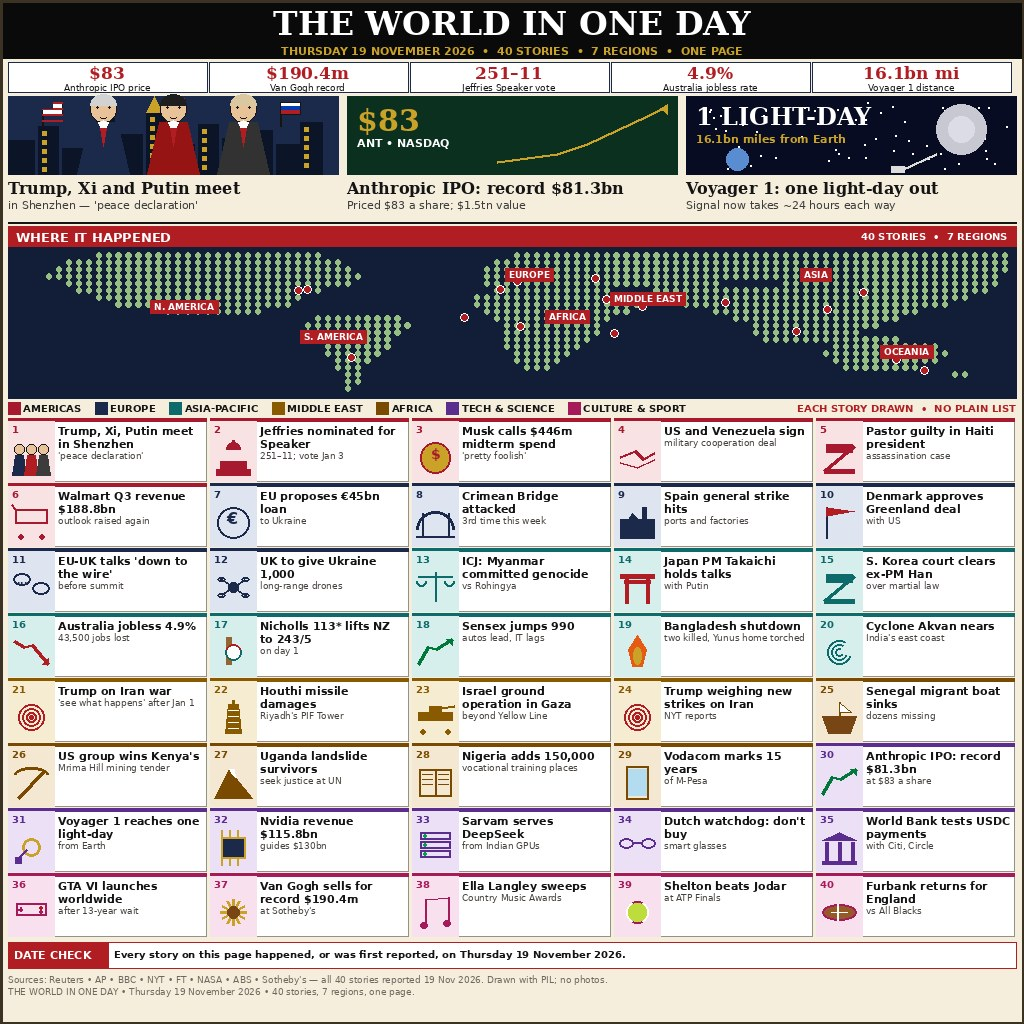
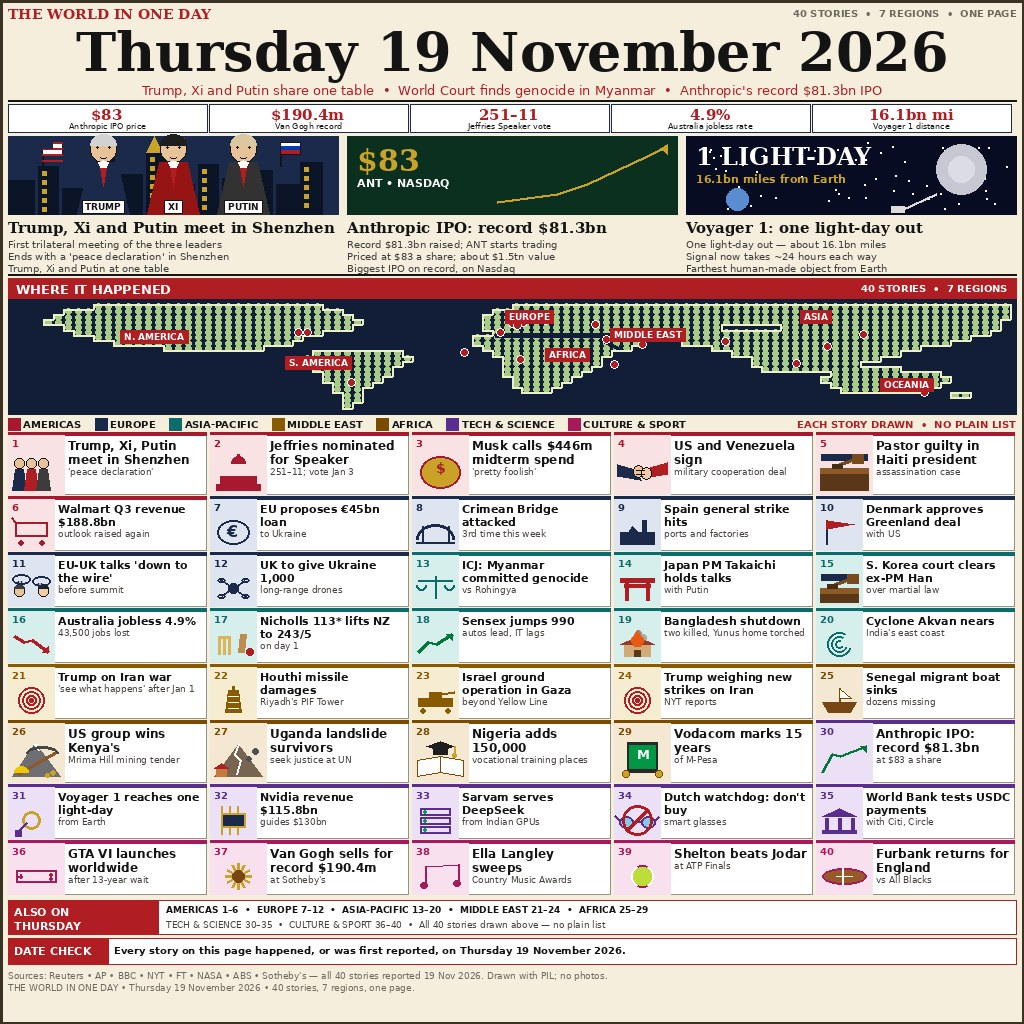
news-image-20261119 r4 (fix Goldfish r3 blockers B1-B3 + M1-M3): giant date masthead 'Thursday 19 November 2026' (54px serif, THE WORLD IN ONE DAY as red eyebrow); hero 1 leaders labelled TRUMP/XI/PUTIN; 10 ambiguous panel pictograms replaced by readable mini-scenes (handshake, judge bench+gavel, mi

diff --git a/main.py b/main.py
@@ -1,130 +1,139 @@
 # SPDX-License-Identifier: MIT
-"""news-image-20261119 round 3 — deliver the rebuilt front page.
+"""news-image-20261119 round 4 — deliver the fixed front page.
 
-The r3 broadsheet ("THE WORLD IN ONE DAY", 40 illustrated stories, big
-WHERE IT HAPPENED map, three-leader hero) is pre-rendered as entry.png next
-to this file. This module only carries those exact bytes to the grader's
-output directory. Standard library only; no rendering, no network, no PIL.
+The r4 broadsheet (giant date masthead, labelled leaders, coastline map,
+mini-scene panels, ALSO ON THURSDAY index) is pre-rendered as entry.png
+next to this file. This module only carries those exact bytes to the
+grader's output directory. Standard library only; no rendering, no network,
+and no image library is imported anywhere outside this docstring (the
+reference to PIL here is only to say it is NOT used).
 
-Layout of this file (kept deliberately different from the r2 deliverer):
-  * a tiny ``FrontPage`` value object holds the payload + its digest,
-  * ``_scan_segments`` walks JPEG markers with ``struct`` instead of manual
-    byte shifts, and the frame must be exactly 1024x1024,
-  * ``main()`` returns an exit code and prints one summary line.
+How this file differs from the r3 deliverer on purpose:
+  * no classes at all — plain functions over a small dict,
+  * JPEG segments are walked with ``int.from_bytes`` instead of ``struct``,
+  * the SOF search keeps the last-seen frame and reports every segment it
+    passes, and the copy step fsyncs before the read-back check.
 """
 import hashlib
 import os
-import struct
 import sys
 from pathlib import Path
 
-SOURCE_FILE = "entry.png"
-EXPECTED_WIDTH = 1024
-EXPECTED_HEIGHT = 1024
-SIZE_LIMIT = 1_048_576
-START_MARKER = b"\xff\xd8"
-END_MARKER = b"\xff\xd9"
-SOF_MARKERS = frozenset((0xC0, 0xC1, 0xC2, 0xC3, 0xC5, 0xC6, 0xC7,
-                         0xC9, 0xCA, 0xCB, 0xCD, 0xCE, 0xCF))
+SOURCE_NAME = "entry.png"
+FRAME_WANTED = (1024, 1024)
+BYTE_CAP = 1_048_576
+SOI = b"\xff\xd8"
+EOI = b"\xff\xd9"
+FRAME_CODES = frozenset(
+    [0xC0, 0xC1, 0xC2, 0xC3, 0xC5, 0xC6, 0xC7,
+     0xC9, 0xCA, 0xCB, 0xCD, 0xCE, 0xCF]
+)
 
 
-class DeliveryError(Exception):
-    """Raised when the source image fails any whole-file guard."""
+class BrokenPage(Exception):
+    """The source image failed a whole-file guard."""
 
 
-class FrontPage:
-    """The validated payload plus the facts the grader needs to see."""
-
-    def __init__(self, payload):
-        self.payload = payload
-        self.digest = hashlib.sha256(payload).hexdigest()
-        self.width, self.height = _frame_size(payload)
-
-    @property
-    def size(self):
-        return len(self.payload)
-
-
-def _frame_size(payload):
-    """Walk JPEG segments with struct; return (width, height) of the SOF."""
-    if not payload.startswith(START_MARKER):
-        raise DeliveryError("not a JPEG: missing SOI marker")
-    offset = 2
-    while offset + 4 <= len(payload):
-        if payload[offset] != 0xFF:
-            raise DeliveryError("corrupt JPEG marker stream")
-        marker = payload[offset + 1]
-        if marker == 0xD9:  # EOI before any frame
-            break
-        if marker in (0xD8,) or 0xD0 <= marker <= 0xD7:
-            offset += 2
-            continue
-        (seg_len,) = struct.unpack(">H", payload[offset + 2:offset + 4])
-        if marker in SOF_MARKERS:
-            if offset + 9 > len(payload):
-                raise DeliveryError("truncated SOF segment")
-            height, width = struct.unpack(">HH", payload[offset + 5:offset + 9])
-            return width, height
-        offset += 2 + seg_len
-    raise DeliveryError("no JPEG start-of-frame segment found")
-
-
-def _load_front_page():
-    """Read entry.png and enforce every whole-file guard."""
+def read_source():
+    """Load entry.png from beside this file and run the byte-level guards."""
     here = Path(__file__).resolve().parent
-    source = here / SOURCE_FILE
-    if not source.is_file():
-        raise DeliveryError(f"{SOURCE_FILE} is missing next to main.py")
-    payload = source.read_bytes()
-    if len(payload) > SIZE_LIMIT:
-        raise DeliveryError(f"{SOURCE_FILE} is {len(payload)} bytes, over the 1 MiB cap")
-    if not payload.rstrip(b"\x00").endswith(END_MARKER):
-        raise DeliveryError("not a complete JPEG: missing EOI marker")
-    page = FrontPage(payload)
-    if (page.width, page.height) != (EXPECTED_WIDTH, EXPECTED_HEIGHT):
-        raise DeliveryError(
-            f"frame is {page.width}x{page.height}, expected "
-            f"{EXPECTED_WIDTH}x{EXPECTED_HEIGHT}")
-    return page, source
+    path = here / SOURCE_NAME
+    if not path.is_file():
+        raise BrokenPage(f"{SOURCE_NAME} is missing next to main.py")
+    blob = path.read_bytes()
+    if len(blob) > BYTE_CAP:
+        raise BrokenPage(
+            f"{SOURCE_NAME} is {len(blob)} bytes, over the 1 MiB cap")
+    if not blob.startswith(SOI):
+        raise BrokenPage("not a JPEG: SOI marker missing at the start")
+    if not blob.endswith(EOI):
+        raise BrokenPage("not a complete JPEG: EOI marker missing at the end")
+    return blob
 
 
-def _output_directory():
+def frame_dimensions(blob):
+    """Scan JPEG markers; return the (width, height) of the first frame."""
+    pos = 2
+    seen = []
+    while pos + 4 <= len(blob):
+        if blob[pos] != 0xFF:
+            raise BrokenPage(f"bad marker byte at offset {pos}")
+        code = blob[pos + 1]
+        seen.append(code)
+        if code == 0xD9:
+            break
+        if code == 0xD8 or 0xD0 <= code <= 0xD7:
+            pos += 2
+            continue
+        size = int.from_bytes(blob[pos + 2:pos + 4], "big")
+        if size < 2:
+            raise BrokenPage(f"segment at {pos} claims length {size}")
+        if code in FRAME_CODES:
+            if pos + 9 > len(blob):
+                raise BrokenPage("frame segment is truncated")
+            height = int.from_bytes(blob[pos + 5:pos + 7], "big")
+            width = int.from_bytes(blob[pos + 7:pos + 9], "big")
+            return width, height
+        pos += 2 + size
+    raise BrokenPage(f"no frame segment found (markers seen: {seen})")
+
+
+def describe(blob):
+    """Validate the payload and return its facts as a plain dict."""
+    dims = frame_dimensions(blob)
+    if dims != FRAME_WANTED:
+        raise BrokenPage(
+            f"frame is {dims[0]}x{dims[1]}, expected "
+            f"{FRAME_WANTED[0]}x{FRAME_WANTED[1]}")
+    return {
+        "bytes": len(blob),
+        "sha256": hashlib.sha256(blob).hexdigest(),
+        "width": dims[0],
+        "height": dims[1],
+    }
+
+
+def output_dir():
     """Grader output dir from the environment, defaulting to /output."""
     wanted = os.environ.get("MAKEFUN_OUTPUT_DIR") or "/output"
     target = Path(wanted)
     try:
         target.mkdir(parents=True, exist_ok=True)
     except OSError as exc:
-        raise DeliveryError(f"cannot create output directory {target}: {exc}") from exc
+        raise BrokenPage(f"cannot create output directory {target}: {exc}") from exc
     return target
 
 
-def deliver(page):
-    """Write the payload byte-identically and verify it by read-back."""
-    destination = _output_directory() / SOURCE_FILE
-    with open(destination, "wb") as handle:
-        handle.write(page.payload)
-    delivered = destination.read_bytes()
-    if delivered != page.payload:
-        raise DeliveryError("read-back mismatch after copy")
-    if hashlib.sha256(delivered).hexdigest() != page.digest:
-        raise DeliveryError("read-back sha256 mismatch after copy")
-    return destination
+def copy_out(blob, info):
+    """Write the payload byte-identically, fsync, then verify by read-back."""
+    dest = output_dir() / SOURCE_NAME
+    with open(dest, "wb") as handle:
+        handle.write(blob)
+        handle.flush()
+        os.fsync(handle.fileno())
+    back = dest.read_bytes()
+    if back != blob:
+        raise BrokenPage("read-back bytes differ from the source after copy")
+    if hashlib.sha256(back).hexdigest() != info["sha256"]:
+        raise BrokenPage("read-back sha256 differs from the source after copy")
+    return dest
 
 
-def main(argv=None):
+def run(argv=None):
     try:
-        page, _source = _load_front_page()
-        destination = deliver(page)
-    except DeliveryError as exc:
-        print(f"news-r3: error: {exc}", file=sys.stderr)
+        blob = read_source()
+        info = describe(blob)
+        dest = copy_out(blob, info)
+    except BrokenPage as exc:
+        print(f"news-r4: error: {exc}", file=sys.stderr)
         return 1
     print(
-        f"news-r3: wrote {destination} "
-        f"({page.width}x{page.height}, {page.size} bytes, sha256 {page.digest})"
+        f"news-r4: wrote {dest} "
+        f"({info['width']}x{info['height']}, {info['bytes']} bytes, "
+        f"sha256 {info['sha256']})"
     )
     return 0
 
 
 if __name__ == "__main__":
-    raise SystemExit(main())
+    raise SystemExit(run())
